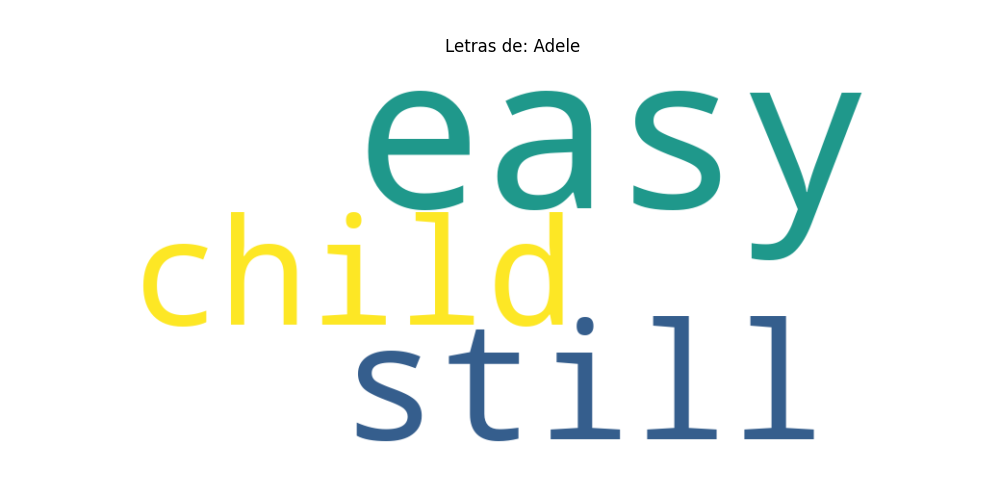
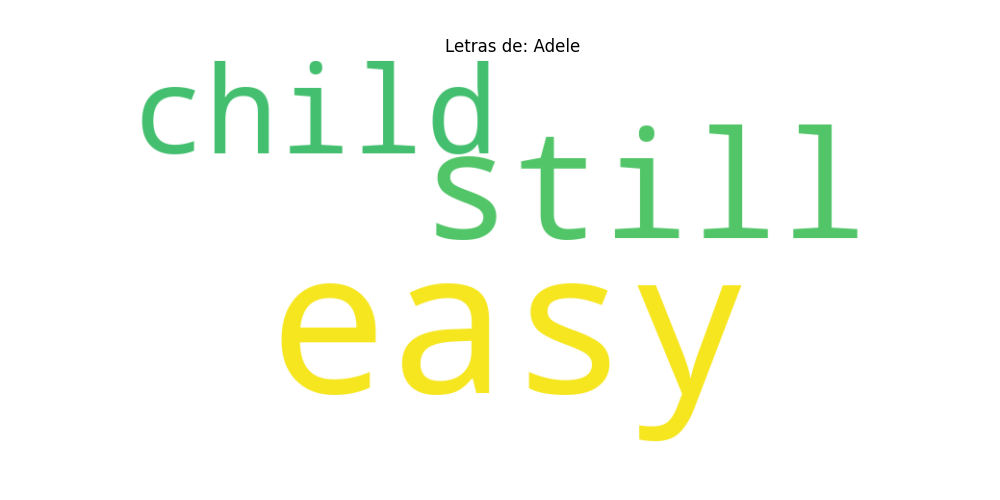
Funcionalidad de opcion 2 implementada

Changed region(s): [[0.124, 0.12, 0.868, 0.9], [0.341, 0.42, 0.372, 0.45]]

diff --git a/main.py b/main.py
@@ -46,8 +46,16 @@ def main():
             if letra:
                 artista, titulo = pedir_metadatos()
                 if artista and titulo:
-                    guardar_analisis(artista, titulo, letra, 0.0)
-                    print(f"\n[✓] Archivo guardado correctamente.")
+                    palabras_limpias = limpiar_texto(letra)
+                    score = obtener_sentimiento(letra)
+                    top_10 = obtener_top_palabras(palabras_limpias)
+                    tags = generar_tags(score)
+
+                    guardar_analisis(artista, titulo, letra, score)
+
+                    print(f"\nANÁLISIS COMPLETADO: {tags}")
+                    mostrar_dashboard(score, top_10)
+                    crear_nube_palabras(top_10, artista)
 
         elif opcion == "3":
             artistas = listar_artistas()
